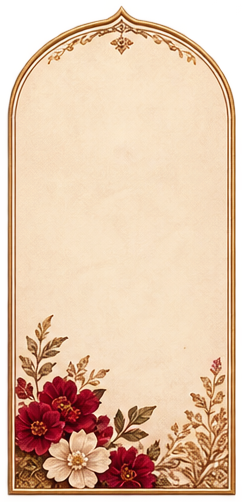
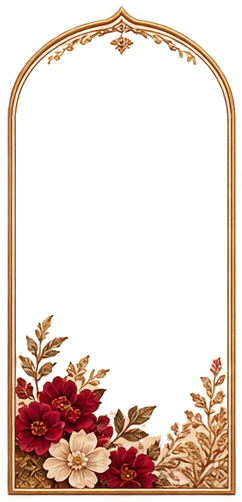
feat(undangan_9): add arched framed couple portrait (bingkai_1) above wedding title on gate cover

diff --git a/undangan_9/index.html b/undangan_9/index.html
@@ -81,39 +81,41 @@
       </div>
 
       <!-- ==========================================
-           CENTER TOP & BOTTOM AXIS EMBLEMS (Fade on Open)
-           ========================================== -->
-      <!-- Top-Center 4-Point Batik Cross Filigree (Centered in Top Header Strip) -->
-      <div class="gate-center-ornament absolute top-[18px] sm:top-[20px] left-1/2 -translate-x-1/2 z-30 pointer-events-none select-none gate-frame-entrance" aria-hidden="true">
-        <svg class="w-6 h-6 text-[#6B3D2E]" viewBox="0 0 28 28" fill="none">
-          <path d="M14 3 L15.6 11.2 L14 14 L12.4 11.2 Z" fill="currentColor"/>
-          <path d="M14 25 L15.6 16.8 L14 14 L12.4 16.8 Z" fill="currentColor"/>
-          <path d="M4 14 L10.8 12.6 L14 14 L10.8 15.4 Z" fill="currentColor"/>
-          <path d="M24 14 L17.2 12.6 L14 14 L17.2 15.4 Z" fill="currentColor"/>
-          <circle cx="14" cy="14" r="1.6" fill="#EFDCCA"/>
-        </svg>
-      </div>
-
-      <!-- ==========================================
            LAYER Z-30: INTERACTIVE CENTER CONTENT
-           Typography, Divider, Statement, 3-Column Date & Maroon CTA Pill
+           Framed Couple Portrait, Typography, Divider, Statement, 3-Column Date & Maroon CTA Pill
            ========================================== -->
-      <div id="gateCenterCard" class="relative z-30 w-full h-full flex flex-col items-center justify-center text-center px-6 pt-16 pb-10 pointer-events-none">
+      <div id="gateCenterCard" class="relative z-30 w-full h-full flex flex-col items-center justify-between text-center px-6 pt-9 pb-8 pointer-events-none">
 
         <div class="w-full max-w-[330px] mx-auto flex flex-col items-center pointer-events-auto">
 
+          <!-- Royal Arched Framed Couple Portrait (bingkai_1.png + Mempelai Maroon) -->
+          <div class="relative w-[132px] sm:w-[146px] aspect-[242/502] mx-auto mb-2 flex items-center justify-center gate-anim-frame-photo">
+            <!-- Inner Arched Couple Photo fitted to aperture of bingkai_1.png -->
+            <div class="absolute inset-[3.5%] rounded-t-[60px] sm:rounded-t-[68px] overflow-hidden bg-[#2A060A]">
+              <img src="asset/img/mempelai/mempelai_maroon_royal.jpg" 
+                   alt="Mempelai Raka &amp; Sinta" 
+                   class="w-full h-full object-cover object-[52%_24%] filter brightness-[1.03]" 
+                   decoding="async">
+            </div>
+            <!-- Golden Arched Heritage Frame Overlay (bingkai_1.png) -->
+            <img src="asset/img/ornamen/bingkai_1.png" 
+                 alt="Bingkai Emas Mempelai" 
+                 class="relative z-10 w-full h-full pointer-events-none drop-shadow-[0_6px_16px_rgba(40,15,10,0.22)]" 
+                 decoding="async">
+          </div>
+
           <!-- Tagline: THE WEDDING OF -->
-          <span class="text-[10.5px] sm:text-[11px] uppercase tracking-[0.26em] text-[#5B3228] font-semibold mb-2 block gate-anim-tagline">
+          <span class="text-[10px] sm:text-[10.5px] uppercase tracking-[0.26em] text-[#5B3228] font-semibold mb-1 block gate-anim-tagline">
             THE WEDDING OF
           </span>
 
           <!-- Names: Raka & Sinta (Classic Upright Serif in Deep Maroon-Espresso) -->
-          <h1 class="font-serif text-[42px] sm:text-[48px] text-[#481E1B] font-semibold tracking-[0.01em] leading-[1.05] mb-2 gate-anim-names">
+          <h1 class="font-serif text-[36px] sm:text-[42px] text-[#481E1B] font-semibold tracking-[0.01em] leading-[1.05] mb-1.5 gate-anim-names">
             Raka &amp; Sinta
           </h1>
 
           <!-- Golden-Bronze Horizontal Divider Ornament (asset/img/ornamen/pembatas.png) -->
-          <div class="w-40 sm:w-44 mx-auto my-2 flex items-center justify-center gate-anim-divider">
+          <div class="w-36 sm:w-40 mx-auto my-1.5 flex items-center justify-center gate-anim-divider">
             <img src="asset/img/ornamen/pembatas.png"
                  alt="Ornamen Pembatas"
                  class="w-full h-auto opacity-90 drop-shadow-[0_1px_2px_rgba(90,45,30,0.15)]"
@@ -121,49 +123,49 @@
           </div>
 
           <!-- Sacred Invitation Statement -->
-          <p class="text-[11px] sm:text-[11.5px] text-[#4E2822] leading-[1.65] max-w-[295px] mx-auto mt-1.5 mb-6 font-medium gate-anim-statement">
+          <p class="text-[10.5px] sm:text-[11px] text-[#4E2822] leading-[1.6] max-w-[290px] mx-auto mt-1 mb-3.5 font-medium gate-anim-statement">
             Dengan memohon rahmat dan ridho Allah SWT,<br>
             kami bermaksud menyelenggarakan pernikahan kami:
           </p>
 
           <!-- Date & Time 3-Column Display with Crisp Vertical Dividers -->
-          <div class="w-full max-w-[295px] mx-auto my-1 py-1 flex items-center justify-center gate-anim-datetime">
+          <div class="w-full max-w-[285px] mx-auto my-0.5 py-0.5 flex items-center justify-center gate-anim-datetime">
             <!-- Left: Day -->
             <div class="flex-1 flex flex-col items-center justify-center text-center">
-              <span class="text-[11px] sm:text-xs font-bold tracking-[0.16em] uppercase text-[#481E1B]">SABTU</span>
+              <span class="text-[10.5px] sm:text-[11px] font-bold tracking-[0.16em] uppercase text-[#481E1B]">SABTU</span>
             </div>
 
             <!-- Vertical Divider -->
-            <div class="w-px h-11 bg-[#8C5B3E]/55 mx-3"></div>
+            <div class="w-px h-10 bg-[#8C5B3E]/55 mx-2.5"></div>
 
             <!-- Center: Big Date & Month/Year -->
             <div class="px-2 flex flex-col items-center justify-center text-center">
-              <span class="font-serif text-[40px] sm:text-[44px] font-semibold leading-[0.88] text-[#481E1B]">24</span>
-              <span class="text-[9.5px] sm:text-[10px] uppercase tracking-[0.15em] font-bold text-[#5B3228] mt-1.5">MEI 2025</span>
+              <span class="font-serif text-[36px] sm:text-[40px] font-semibold leading-[0.88] text-[#481E1B]">24</span>
+              <span class="text-[9px] sm:text-[9.5px] uppercase tracking-[0.15em] font-bold text-[#5B3228] mt-1">MEI 2025</span>
             </div>
 
             <!-- Vertical Divider -->
-            <div class="w-px h-11 bg-[#8C5B3E]/55 mx-3"></div>
+            <div class="w-px h-10 bg-[#8C5B3E]/55 mx-2.5"></div>
 
             <!-- Right: Time Label & Value -->
             <div class="flex-1 flex flex-col items-center justify-center text-center">
-              <span class="text-[9.5px] sm:text-[10px] uppercase tracking-[0.14em] font-bold text-[#5B3228]">PUKUL</span>
-              <span class="text-[10.5px] sm:text-[11px] font-bold text-[#481E1B] mt-0.5 tracking-[0.04em]">09.00 WIB</span>
+              <span class="text-[9px] sm:text-[9.5px] uppercase tracking-[0.14em] font-bold text-[#5B3228]">PUKUL</span>
+              <span class="text-[10px] sm:text-[10.5px] font-bold text-[#481E1B] mt-0.5 tracking-[0.04em]">09.00 WIB</span>
             </div>
           </div>
 
           <!-- Dynamic Guest Name Invitation (Hidden by default to match photo; auto-shown if ?to= or ?u= is provided) -->
-          <div id="coverGuestWrap" class="hidden mt-3.5 mb-0.5 gate-anim-guest">
-            <span class="text-[9.5px] uppercase tracking-[0.20em] text-[#6E4033] font-medium block">Kepada Yth. Bapak/Ibu/Saudara/i:</span>
+          <div id="coverGuestWrap" class="hidden mt-2.5 mb-0.5 gate-anim-guest">
+            <span class="text-[9px] uppercase tracking-[0.20em] text-[#6E4033] font-medium block">Kepada Yth. Bapak/Ibu/Saudara/i:</span>
             <div id="coverGuestName" class="font-serif text-base sm:text-lg font-semibold text-[#481E1B] tracking-wide mt-0.5">
               Nama Tamu
             </div>
           </div>
 
           <!-- Action Button: Maroon Heritage Pill with Right Arrow -->
-          <div class="mt-7 sm:mt-8 gate-anim-btn-wrap">
+          <div class="mt-4 sm:mt-5 gate-anim-btn-wrap">
             <button onclick="openGate()"
-                    class="group inline-flex items-center justify-center gap-3 px-9 py-3 sm:py-3.5 rounded-full bg-gradient-to-b from-[#5E1217] via-[#4D0D11] to-[#3B070A] hover:from-[#6B151B] hover:to-[#48090D] active:scale-95 text-[#FAF0E4] text-xs sm:text-[13px] font-semibold tracking-wide border-[1.5px] border-[#FFF7EE]/85 shadow-[0_8px_22px_rgba(68,12,16,0.32)] hover:shadow-[0_12px_28px_rgba(68,12,16,0.42)] transition-all duration-300 cursor-pointer pointer-events-auto gate-btn-pulse">
+                    class="group inline-flex items-center justify-center gap-3 px-8 py-2.5 sm:py-3 rounded-full bg-gradient-to-b from-[#5E1217] via-[#4D0D11] to-[#3B070A] hover:from-[#6B151B] hover:to-[#48090D] active:scale-95 text-[#FAF0E4] text-xs sm:text-[12.5px] font-semibold tracking-wide border-[1.5px] border-[#FFF7EE]/85 shadow-[0_8px_22px_rgba(68,12,16,0.32)] hover:shadow-[0_12px_28px_rgba(68,12,16,0.42)] transition-all duration-300 cursor-pointer pointer-events-auto gate-btn-pulse">
               <span>Buka Undangan</span>
               <!-- Right Arrow Icon matching design photo -->
               <svg class="w-4 h-4 stroke-current stroke-[2.2] fill-none transform transition-transform duration-300 group-hover:translate-x-1" viewBox="0 0 24 24">

diff --git a/undangan_9/css/style.css b/undangan_9/css/style.css
@@ -782,6 +782,22 @@ body {
   will-change: opacity, transform;
 }
 
+/* 2b. Royal Arched Framed Couple Photo (bingkai_1.png + Mempelai Maroon) */
+@keyframes gateFramePhotoSlow {
+  0% {
+    opacity: 0;
+    transform: translateY(18px) scale(0.94);
+  }
+  100% {
+    opacity: 1;
+    transform: translateY(0) scale(1);
+  }
+}
+.gate-anim-frame-photo {
+  animation: gateFramePhotoSlow 2.1s cubic-bezier(0.16, 1, 0.3, 1) 0.44s both;
+  will-change: opacity, transform;
+}
+
 /* 3. Tagline: THE WEDDING OF */
 @keyframes gateTaglineSlow {
   0% {
